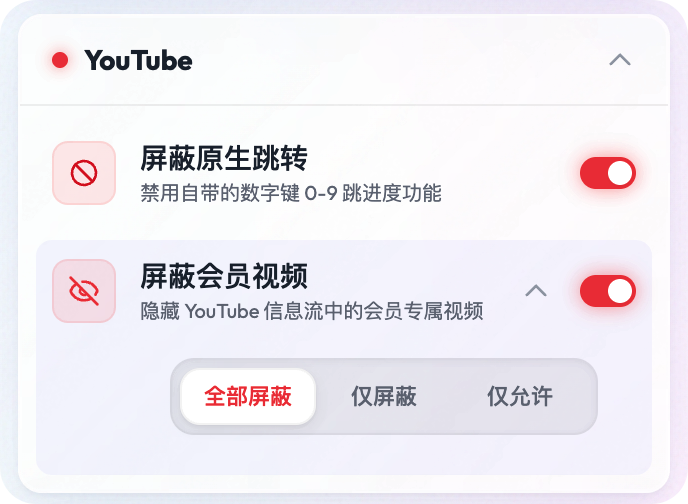
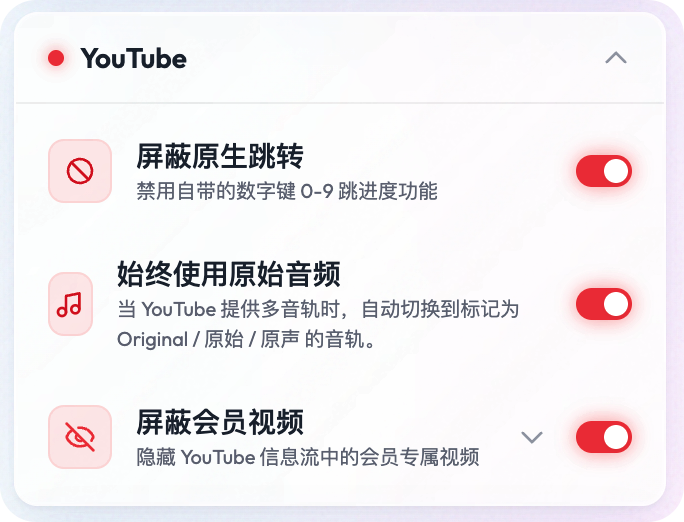
修复禁用双击全屏B站弹幕框的问题

diff --git a/src/features/BilibiliFastPause.ts b/src/features/BilibiliFastPause.ts
@@ -9,6 +9,16 @@ export class BilibiliFastPause implements Feature {
     private config = getFastPauseConfig('bilibili');
     private enabled = false;
     private listenersRegistered = false;
+    private readonly interactiveSelectors = [
+        'input',
+        'textarea',
+        'select',
+        '[contenteditable="true"]',
+        '[contenteditable=""]',
+        '[contenteditable="plaintext-only"]',
+        '[role="textbox"]',
+        '[role="searchbox"]'
+    ].join(',');
 
     private isClickOnControls(target: HTMLElement): boolean {
         return (this.config?.controlSelectors || []).some((selector) => target.closest(selector) !== null);
@@ -17,6 +27,24 @@ export class BilibiliFastPause implements Feature {
     private isInVideoArea(target: HTMLElement): boolean {
         if (target.tagName === 'VIDEO') return true;
         return (this.config?.videoAreaSelectors || []).some((selector) => target.closest(selector) !== null);
+    }
+
+    private blurActiveTypingElement() {
+        const active = document.activeElement;
+        if (!(active instanceof HTMLElement)) return;
+
+        const tag = active.tagName.toUpperCase();
+        const isTypingElement = ['INPUT', 'TEXTAREA', 'SELECT'].includes(tag)
+            || active.isContentEditable
+            || active.closest(this.interactiveSelectors) !== null;
+
+        if (!isTypingElement) return;
+
+        active.blur();
+
+        if (document.activeElement === active) {
+            window.getSelection()?.removeAllRanges();
+        }
     }
 
     mount() {
@@ -54,6 +82,10 @@ export class BilibiliFastPause implements Feature {
 
             // Safety check: Don't trigger on controls
             if (this.isClickOnControls(target)) return false;
+
+            // We stop Bilibili's native click flow below, so manually restore
+            // the normal "click video => input loses focus" behavior.
+            this.blurActiveTypingElement();
 
             // Action: Toggle Play/Pause via Controller
             this.videoCtrl.togglePlay();

diff --git a/README.md b/README.md
@@ -1,154 +1,226 @@
-# VidBoost - 浏览器专属的高阶视频增强与效率插件
+# VidBoost
 
-![License](https://img.shields.io/badge/license-MIT-blue.svg) ![Svelte](https://img.shields.io/badge/svelte-%23f1413d.svg?style=flat&logo=svelte&logoColor=white) ![TypeScript](https://img.shields.io/badge/typescript-%23007ACC.svg?style=flat&logo=typescript&logoColor=white) ![Vite](https://img.shields.io/badge/vite-%23646CFF.svg?style=flat&logo=vite&logoColor=white)
+![Chrome](https://img.shields.io/badge/Chrome-Extension-4285F4?style=flat&logo=googlechrome&logoColor=white)
+![Edge](https://img.shields.io/badge/Edge-Extension-0078D7?style=flat&logo=microsoftedge&logoColor=white)
+![Svelte](https://img.shields.io/badge/Svelte-F1413D?style=flat&logo=svelte&logoColor=white)
+![TypeScript](https://img.shields.io/badge/TypeScript-007ACC?style=flat&logo=typescript&logoColor=white)
+![Vite](https://img.shields.io/badge/Vite-646CFF?style=flat&logo=vite&logoColor=white)
 
-## 🌟 为什么选择 VidBoost？
+VidBoost 是一个面向 Chrome / Edge 的视频增强扩展，用来把我自己长期在用的几类高频功能整合到一个稳定、统一、低打扰的入口里。
 
-本来为了视频倍速、屏蔽特定元素等需求，在浏览器中安装了多个散杂的篡改猴脚本。但它们总是因为互相冲突、性能负担或各种 Bug 导致体验割裂。**VidBoost** 的诞生就是为了把这些高频、刚需的视频控制功能融合到一个极其精简、低内存占用、高稳定性的原生插件中。
+如果你平时会同时装好几个油猴脚本来处理倍速、后台暂停、误触全屏、YouTube / B 站专项优化，VidBoost 想做的就是把这些零散能力收拢成一个更省心的 Manifest V3 扩展。
 
----
+- Chrome Web Store: [安装 VidBoost](https://chromewebstore.google.com/detail/vidboost/bjehghokgbfmceggcbpjgmahgjgpgbia?authuser=0&hl=zh-CN)
 
 <p align="center">
-  <img src="./assets/light_mode.png" width="48%" alt="浅色模式主界面" />
+  <img src="./assets/light_mode.png" width="48%" alt="VidBoost 主界面（浅色）" />
   &nbsp;
-  <img src="./assets/dark_mode.png" width="48%" alt="深色模式主界面" />
+  <img src="./assets/dark_mode.png" width="48%" alt="VidBoost 主界面（深色）" />
 </p>
 
-## 🧩 核心功能模块与使用场景
+## 为什么会有这个插件
 
-这里我们将 VidBoost 提供的四大核心能力拆解介绍。
+- 把常用视频增强功能集中在一个入口里，不用再来回翻多个脚本和设置面板。
+- 尽量减少脚本之间互相打架、设置分散、插件失效后还要重启浏览器这类割裂体验。
+- 优先解决真正高频的场景，例如倍速切换、后台暂停、误触全屏、YouTube 和 B 站的站点级痛点。
+- 实现上尽量控制常驻开销，只在页面里真正出现视频或相关场景时才激活逻辑。
 
-### 1. ⚙ 通用增强 (General)
+## 功能总览
 
-**h5player - 丝滑的全局视频倍速控制**
+### 通用增强
 
-无论是学习网课还是追剧，浏览器原生的播放器往往缺少好用的快捷键。
+#### 1. h5player 快捷倍速控制
 
-- **使用场景**：当你在任何网站观看 HTML5 视频时，只需要按下键盘上的数字键 `1` 到 `6`，即可瞬间切换到对应的倍速（1x 到 6x）。助你光速度过视频中的“垃圾时间”。
-- **优化细节**：支持屏蔽 YouTube 原生的数字键跳跃功能，彻底解决想要切换到 3 倍速却意外跳到进度条 30% 处的痛点。
+适用于大多数 HTML5 视频网站，不只限于 YouTube 或 Bilibili。
+
+- `1-6` 直接切到 1x-6x
+- `C / X / Z` 加速、减速、切换或重置速度
+- `Enter` 全屏
+- `← / →` 快退、快进
+- 支持自定义调速步长、最大倍速、快进快退秒数
+
+这套功能我自己主要拿来看 YouTube、B 站、网课平台，也适用于很多常见 HTML5 视频站点。
+
+新增兼容优化：
+- 抖音高倍速守护。超过 `3x` 的倍速在抖音经常会被页面逻辑重置，VidBoost 会在你调到高倍速后尽量守住当前速度。
 
 <p align="center">
-  <img src="./assets/h5_setting.png" width="50%" alt="h5player 倍速控制截图" />
+  <img src="./assets/h5_setting.png" width="56%" alt="h5player 设置截图" />
 </p>
 
-**Auto Pause - 智能后台视频暂停**
+#### 2. 自动暂停
 
-当你在多个标签页查阅资料时，后台标签页里的视频声音往往会干扰你。
+切到别的标签页，或者浏览器窗口失焦时，正在播放的视频可以自动暂停；切回来之后再恢复播放。
 
-- **使用场景**：启用此功能后，只要你切换到别的标签页或是浏览器窗口失去了焦点，当前正在播放的视频就会**自动暂停**；当你切回来时，它又能无缝继续播放。
-- **高度定制**：你可以选择“全局生效”，或是“仅在指定网站生效”（例如仅在 YouTube 和 Bilibili 开启，或是自定义填入其他网址）。当然，如果你需要让它后台挂机听歌，可以直接在插件面板里一键开启“允许后台继续播放”。
+支持的使用方式：
+
+- 全站生效
+- 仅对指定站点生效
+- 自定义补充域名
+- 允许后台继续播放，用来挂机听歌或播长音频
 
 <p align="center">
-  <img src="./assets/auto_pause.png" width="48%" alt="Auto Pause 设置截图" />
+  <img src="./assets/auto_pause.png" width="56%" alt="自动暂停设置截图" />
 </p>
 
-**Fast Pause - 禁用双击全屏与极速暂停**
-<p align="center">
-  <img src="./assets/fastPause.png" width="60%" alt="Fast Pausee 设置截图" />
-</p>
-在 YouTube / Bilibili 看视频时，频繁点击暂停/播放很容易误触原生双击全屏，或者遇到原生点击响应偏慢的问题。
+#### 3. 极速暂停 / 禁用双击全屏
 
-- **使用场景**：开启后会拦截视频区域的双击全屏行为，并把暂停/播放响应前置到按下鼠标瞬间，让高频连击更稳定。
-- **可控范围**：该功能位于 **通用 (General)**，支持总开关，同时可分别对 **YouTube** 与 **Bilibili** 单独启用或关闭。
+这个功能主要解决一个很具体但很高频的问题：想快速点击视频暂停，结果误触成双击全屏。
 
-### 2. YouTube 专属增强
+它会做两件事：
 
-<p align="center">
-  <img src="./assets/youtube.png" width="70%" alt="YouTube 设置截图" />
-</p>
+- 禁用视频区域双击全屏
+- 尽量把暂停 / 播放响应前置，让高频点击更稳一些
 
-在 YouTube 的首页推荐或是订阅流里，总会混杂着需要付费成为频道会员才能观看的视频。
-
-- **使用场景 (智能过滤会员视频)**：如果你经常被推荐无法看的会员视频打扰，甚至点进去才发现无法观看，这个功能为你提供了三种净化模式：
-  - **全部屏蔽**：一刀切，让信息流里不再出现任何会员专属视频。
-  - **白名单模式 (仅允许)**：默认拦截所有会员视频，但放行你已经开通了会员的特定频道。
-  - **黑名单模式 (仅屏蔽)**：只屏蔽你特别指定的不想看到其会员视频的频道，其他频道的保留。
-- **操作体验**：我们设计了极简美观的频道标签输入框，你不仅可以快速添加，还能点击任意已有频道名称进行原地无缝编辑，并且完全原生支持响应式布局排版。
+目前主要针对 YouTube 和 Bilibili 这类高频点击场景做了适配。
 
 <p align="center">
-  <img src="./assets/youtube_filter.png" width="70%" alt="YouTube 会员屏蔽设置截图" />
+  <img src="./assets/fastPause.png" width="62%" alt="极速暂停设置截图" />
 </p>
 
-### 3. Bilibili 专属增强
+### YouTube 专属增强
+
 <p align="center">
-  <img src="./assets/bilibili.png" width="70%" alt="Bilibili 设置" />
+  <img src="./assets/youtube.png" width="56%" alt="YouTube 专属增强设置截图" />
 </p>
-针对国内最常用的弹幕视频网站做的额外适配与深度优化。
 
-- **使用场景一 (防误触)**：在 B 站看视频频繁点击暂停/播放时，容易触发原生的“双击全屏”，导致画面乱跳。开启**禁用双击全屏**后，你的连击将变得从容。并且支持禁止观看时按空格键导致整个网页大面积滚动。
-- **使用场景二 (CDN 网络切换)**：海外用户或部分网络环境下，B 站默认的 CDN 可能会卡顿。这里提供了直观且原生的 **CDN 切换器面板**，帮你一键对所有可用节点进行真实测速，以便你能够直观地手动切换到最高速的视频播放节点（同时支持番剧增强模式）。
+#### 1. 屏蔽原生数字键跳进度
+
+YouTube 原生的 `0-9` 数字键是跳进度，和上面的快捷倍速是天然冲突的。
+
+启用后可以拦掉这套原生行为，避免本来想切到 `3x`，结果视频直接跳到 `30%` 进度。
+
+#### 2. 始终使用原始音频
+
+这是后面新增的一项功能。
+
+当 YouTube 视频提供多音轨时，VidBoost 会自动切换到标记为 `Original / 原始 / 原声` 的音轨，适合不想被自动配音、翻译音轨打断的场景。
+
+- 支持普通视频页
+- 支持 Shorts
+- 只在页面存在多音轨时介入
+
+#### 3. 屏蔽会员视频
+
+YouTube 首页、订阅流等信息流里，经常会混进一些频道会员专属视频。
+
+现在支持三种模式：
+
+- 全部屏蔽
+- 黑名单模式：只屏蔽你指定频道的会员视频
+- 白名单模式：默认拦掉，只保留你允许的频道
 
 <p align="center">
-  <img src="./assets/bilibili_cdn.png" width="70%" alt="Bilibili CDN与增强功能截图" />
+  <img src="./assets/youtube_filter.png" width="72%" alt="YouTube 会员过滤设置截图" />
+</p>
+
+### Bilibili 专属增强
+
+#### 1. 自动打开中文字幕
+
+这是目前 README 里缺失、但代码里已经补上的功能之一。
+
+进入 B 站视频页后，如果站点本身提供中文字幕，VidBoost 会自动帮你打开，并优先选择 AI 中文字幕。
+
+支持的用法：
+
+- 对全部视频生效
+- 只对指定 UP 主生效
+- 支持填写 UID、空间链接或昵称
+- 可以直接把当前视频的 UP 一键加入白名单
+
+常见的普通视频、番剧、收藏列表、稍后再看页面都能覆盖到。
+
+#### 2. 屏蔽空格翻页
+
+在 B 站看视频时，按空格本来是想控制播放，但页面有时会顺手一起滚动，这个功能就是专门拦这个问题的。
+
+#### 3. CDN 切换与测速
+
+当 Bilibili 默认 CDN 不稳定、速度差或海外网络体验不好时，可以手动切换到其他节点。
+
+目前支持：
+
+- 手动切换 Bilibili CDN 节点
+- 对可用节点做真实测速
+- 测试海外 / 香港节点
+- 测速后自动选择最快节点
+- 按测速结果排序查看
+- 番剧增强模式
+
+<p align="center">
+  <img src="./assets/bilibili.png" width="72%" alt="Bilibili 专属增强设置截图" />
+</p>
+
+<p align="center">
+  <img src="./assets/bilibili_cdn.png" width="72%" alt="Bilibili CDN 功能截图" />
 </p>
 
 <details>
-  <summary>📸 点击展开查看：完整的 B 站增强设置面板长截图</summary>
+  <summary>展开查看完整的 B 站设置面板截图</summary>
   <p align="center">
-    <img src="./assets/bilibili_cdnset.png" width="70%" alt="Bilibili CDN与增强功能设置长截图" />
+    <img src="./assets/bilibili_cdnset.png" width="72%" alt="Bilibili 设置长截图" />
   </p>
 </details>
 
----
+## 支持场景
 
-## 🚀 极致性能说明
+- 通用 HTML5 视频网站：YouTube、Bilibili、各类网课平台，以及大多数标准 `<video>` 播放器站点
+- 站点专项优化：YouTube、Bilibili、抖音
+- 部分全屏适配已额外处理：爱奇艺、优酷、腾讯视频等
 
-VidBoost 在性能上毫不妥协：
-- **零延迟通信**：不依赖硬盘读写，通过最新的 `BroadcastChannel` 等机制进行瞬间跨标签页通信（例如一旦失去焦点立刻跨域触发暂停）。
-- **静默休眠技术**：基于 `VideoDetector` 与 Shadow DOM 判断机制，只在页面真正出现真正视频标签时才会激活相关逻辑，平时处于近乎零内存占用的静默休眠状态。
-- **极低内存占用**：通过统一的 `InputManager` 管理事件钩子，大幅减少浏览器层面的事件监听器堆叠。
+## 性能与权限说明
 
-## 🛠 技术栈
+VidBoost 比较在意常驻时的开销，实现上会尽量收着来：
 
-本项目完全基于现代 Web 技术重构，以确保最佳的性能和可维护性：
+- 只在页面里真正检测到视频或对应站点场景时激活逻辑
+- 统一管理输入监听和功能挂载，减少重复绑定
+- 跨标签页状态同步尽量依赖浏览器原生能力，少走不必要的中转
 
-*   **核心语言**: [TypeScript](https://www.typescriptlang.org/) (严格类型检查，稳健可靠)
-*   **UI 框架**: [Svelte](https://svelte.dev/) (无虚拟 DOM，编译为极小的原生 JS)
-*   **构建工具**: [Vite](https://vitejs.dev/) (秒级热更新，极致构建优化)
-*   **样式库**: [Tailwind CSS](https://tailwindcss.com/) (原子化 CSS，高效灵活)
-*   **浏览器 API**: Manifest V3 (面向未来的插件底层架构)
+当前主要用到的权限和原因：
 
-## 📥 安装指南
+- `storage`：保存功能开关和自定义设置
+- `activeTab`：与当前标签页交互，例如读取当前页面信息或触发当前页相关功能
 
-### 官方商店下载 (推荐)
-已上架 Chrome 插件商店，享受云端自动更新：
-[👉 点我直达 Chrome Web Store 下载 VidBoost](https://chromewebstore.google.com/detail/vidboost/bjehghokgbfmceggcbpjgmahgjgpgbia?authuser=0&hl=zh-CN)
+扩展也会向页面注入内容脚本，这是视频增强、站点适配和页面内播放器交互正常工作的前提。
 
-### 💻 源码安装 (开发者模式)
+## 安装
 
-1.  **克隆仓库**:
-    ```bash
-    git clone https://github.com/tunecc/VidBoost.git
-    cd VidBoost
-    ```
+### 1. Chrome 商店安装
 
-2.  **安装依赖**:
-    ```bash
-    npm install
-    ```
+直接安装：
 
-3.  **构建项目**:
-    ```bash
-    npm run build
-    ```
-    构建完成后会生成一个 `dist` 文件夹，其中包含了编译好的扩展程序。
+[Chrome Web Store - VidBoost](https://chromewebstore.google.com/detail/vidboost/bjehghokgbfmceggcbpjgmahgjgpgbia?authuser=0&hl=zh-CN)
 
-4.  **加载到浏览器**:
-    *   打开 Chrome/Edge 浏览器，输入 `chrome://extensions` 进入扩展管理页。
-    *   开启右上角的 **开发者模式 (Developer mode)**。
-    *   点击 **加载已解压的扩展程序 (Load unpacked)**。
-    *   选择项目目录下的 `dist` 文件夹（注意选 `dist`，不是外层目录）。
+### 2. 源码安装
 
-## 🤝 参与贡献
+```bash
+git clone https://github.com/tunecc/VidBoost.git
+cd VidBoost
+npm install
+npm run build
+```
 
-欢迎提交 Issue 和 Pull Request！
+构建完成后，在 Chrome / Edge 的扩展管理页面加载 `dist` 目录即可。
 
-1.  Fork 本项目
-2.  创建您的特性分支 (`git checkout -b feature/AmazingFeature`)
-3.  提交您的修改 (`git commit -m 'Add some AmazingFeature'`)
-4.  推送到分支 (`git push origin feature/AmazingFeature`)
-5.  提交 Pull Request
+## 开发
 
-## 📄 开源协议
+```bash
+npm run check
+npm run build
+```
 
-本项目采用 MIT 协议开源。详情请参阅 `LICENSE` 文件。
+项目基于以下技术栈：
+
+- TypeScript
+- Svelte
+- Vite
+- Tailwind CSS
+- Manifest V3
+
+## 反馈与贡献
+
+如果你也有类似的视频使用场景，欢迎提 Issue、功能建议或者直接发 PR。
+
+- Issues: [https://github.com/tunecc/VidBoost/issues](https://github.com/tunecc/VidBoost/issues)
+- 仓库地址: [https://github.com/tunecc/VidBoost](https://github.com/tunecc/VidBoost)
